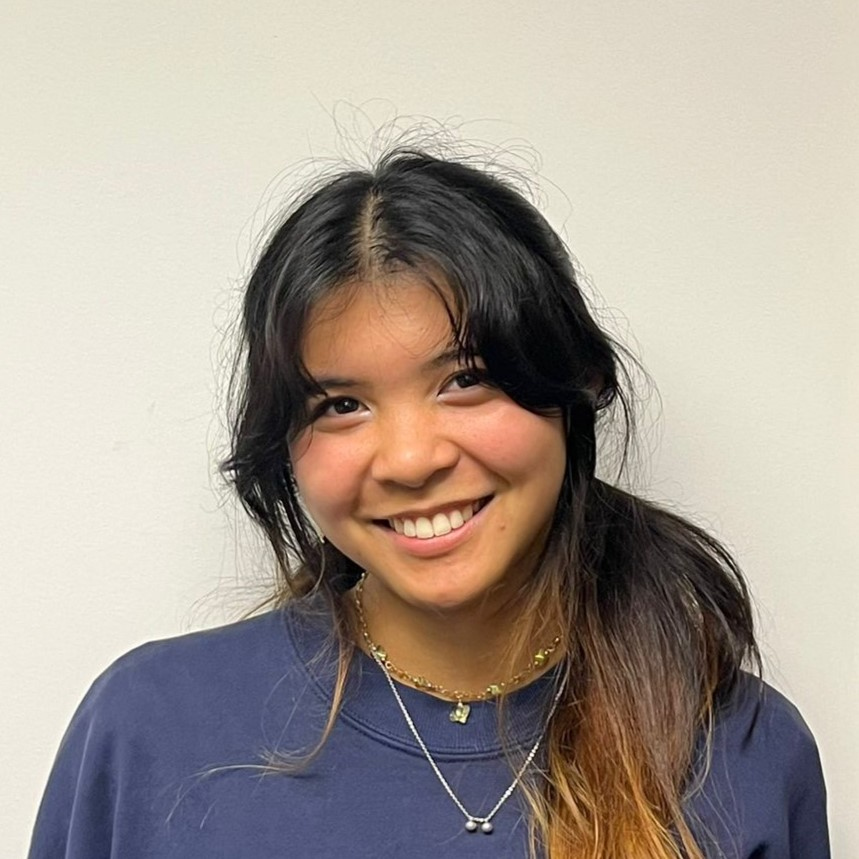
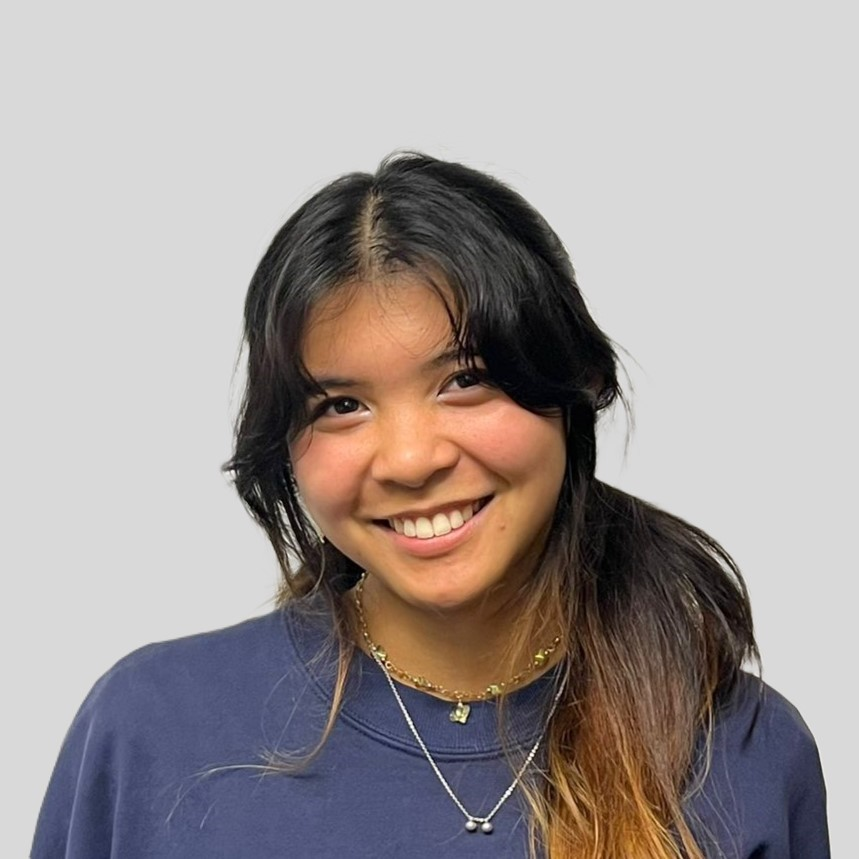
New product and team images

diff --git a/committee.html b/committee.html
@@ -50,52 +50,58 @@
             <div class="grid-item">
                 <img src="images/team/eddie.jpg" alt="pfp" loading="lazy">
                 <h3>EDDIE CHILDS</h3>
-                <p>Project Leader</p>
-            </div>
-            <div class="grid-item">
-                <img src="images/team/emily.jpg" alt="pfp" loading="lazy">
-                <h3>EMILY BAKER</h3>
-                <p>Product and Sales</p>
-            </div>
-            <div class="grid-item">
-                <img src="images/team/alice.jpg" alt="pfp" loading="lazy">
-                <h3>ALICE WANG</h3>
-                <p>Product and Fundraising</p>
+                <p>Executive Director</p>
             </div>
             <div class="grid-item">
                 <img src="images/team/anthea.jpg" alt="pfp" loading="lazy">
                 <h3>ANTHEA GABOT</h3>
-                <p>Product and Partnerships</p>
+                <p>Director of Educational Workshops</p>
+            </div>
+            <div class="grid-item">
+                <img src="images/team/giorgio.jpg" alt="pfp" loading="lazy">
+                <h3>GIORGIO GASTAUT</h3>
+                <p>Lead Product Engineer</p>
+            </div>
+            <div class="grid-item">
+                <img src="images/team/anna.jpg" alt="pfp" loading="lazy">
+                <h3>ANNA CHARLOTTE ENGELBERT</h3>
+                <p>Business Development</p>
+            </div>
+            <div class="grid-item">
+                <img src="images/team/jia.jpg" alt="pfp" loading="lazy">
+                <h3>JIA EN WONG</h3>
+                <p>Business Development</p>
             </div>
             <div class="grid-item">
                 <img src="images/team/geneva.jpg" alt="pfp" loading="lazy">
                 <h3>GENEVA CHAN</h3>
-                <p>Sales and Fundraising</p>
+                <p>Business Development</p>
+            </div>
+            <div class="grid-item">
+                <img src="images/team/emily.jpg" alt="pfp" loading="lazy">
+                <h3>EMILY BAKER</h3>
+                <p>Product Design and Fundraising</p>
             </div>
             <div class="grid-item">
                 <img src="images/team/nirupama.jpg" alt="pfp" loading="lazy">
                 <h3>NIRUPAMA RAJEEV NAIR</h3>
                 <p>Fundraising and Partnerships</p>
             </div>
-            <div class="grid-item">
-                <img src="images/team/jia.jpg" alt="pfp" loading="lazy">
-                <h3>JIA EN WONG</h3>
-                <p>Sales and Fundraising</p>
-            </div>
+
             <div class="grid-item">
                 <img src="images/team/cristina.jpg" alt="pfp" loading="lazy">
                 <h3>CRISTINA DARIO</h3>
                 <p>Marketing and Fundraising</p>
             </div>
             <div class="grid-item">
-                <img src="images/team/giorgio.jpg" alt="pfp" loading="lazy">
-                <h3>GIORGIO GASTAUT</h3>
-                <p>Product and Sales</p>
+                <img src="images/team/alice.jpg" alt="pfp" loading="lazy">
+                <h3>ALICE WANG</h3>
+                <p>Product Sourcing and Fundraising</p>
             </div>
             <div class="grid-item">
-                <img src="images/team/anna.jpg" alt="pfp" loading="lazy">
-                <h3>ANNA CHARLOTTE ENGELBERT</h3>
-                <p>Sales and Fundraising</p>
+                <img src="images/profile-icon.png" alt="pfp" loading="lazy">
+                <h3>GODWIN</h3>
+                <p>Website Development</p>
             </div>
         </div>
         <br><br><br><br>

diff --git a/product.html b/product.html
@@ -57,7 +57,8 @@
                 <p>By partnering with organisations, we aim to create a sustainable
                     solution that empowers individuals to manage their periods with dignity and confidence, ultimately
                     working towards the eradication of period poverty in the UK.</p><br><br>
-                <img src="images/prototype.jpg" alt="pfp" loading="lazy"><br>
+                <img src="images/product_side.JPG" alt="pfp" loading="lazy"><br><br><br>
+                <img src="images/product_zoom.JPG" alt="pfp" loading="lazy"><br>
 
             </div>
             <br><br><br><br>
